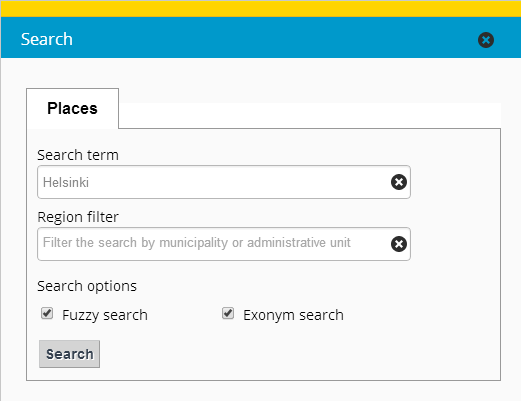
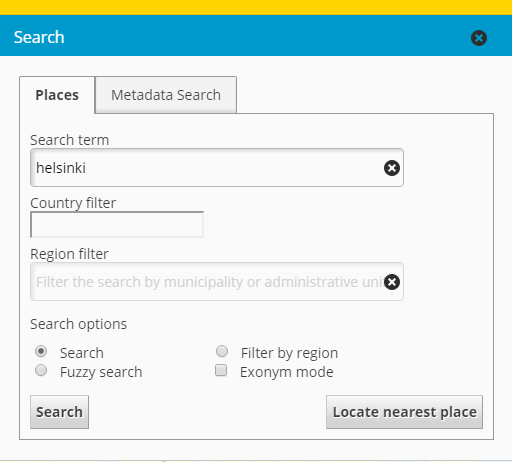
ELF geolocator updates

diff --git a/md/documentation/backend/actionroutes/getGeoLocatorSearchResult.md b/md/documentation/backend/actionroutes/getGeoLocatorSearchResult.md
@@ -15,6 +15,12 @@ The action route is responsible for handling the location search query based on 
     <td>User input search term</td>
     <td>**true** (unless `lon` and `lat` present)</td>
   </tr>
+   <tr>
+      <td>`country`</td>
+      <td>String</td>
+      <td>ELF country (autocomplete list)</td>
+      <td>**optional**</td>
+    </tr>
   <tr>
     <td>`region`</td>
     <td>String</td>
@@ -36,7 +42,7 @@ The action route is responsible for handling the location search query based on 
   <tr>
     <td>`exonym`</td>
     <td>Boolean</td>
-    <td>exonym names included</td>
+    <td>exonym names (names in other languages) included</td>
     <td>**optional** (defaults to false)</td>
   </tr>
   <tr>
@@ -90,6 +96,8 @@ Will return an error if the `term` param is empty, if it contains the `*` charac
 ### Example geocoding query for Paikkatietoikkuna
 http://www.paikkatietoikkuna.fi/web/fi/kartta?p_p_id=Portti2Map_WAR_portti2mapportlet&p_p_lifecycle=2&action_route=GetGeoLocatorSearchResult&lang=en&&epsg=EPSG:3067&term=Helsinki&region=&fuzzy=true&exonym=true
 
+### Example geocoding query for oskari-map servlet (normal search with country filter)
+http://localhost:8888/oskari-map/?action_route=GetGeoLocatorSearchResult&lang=en&epsg=EPSG:3857&term=Helsinki&region=&country=FI&normal=true&filter=false&fuzzy=false&exonym=false
 Response:
 
 ```json
